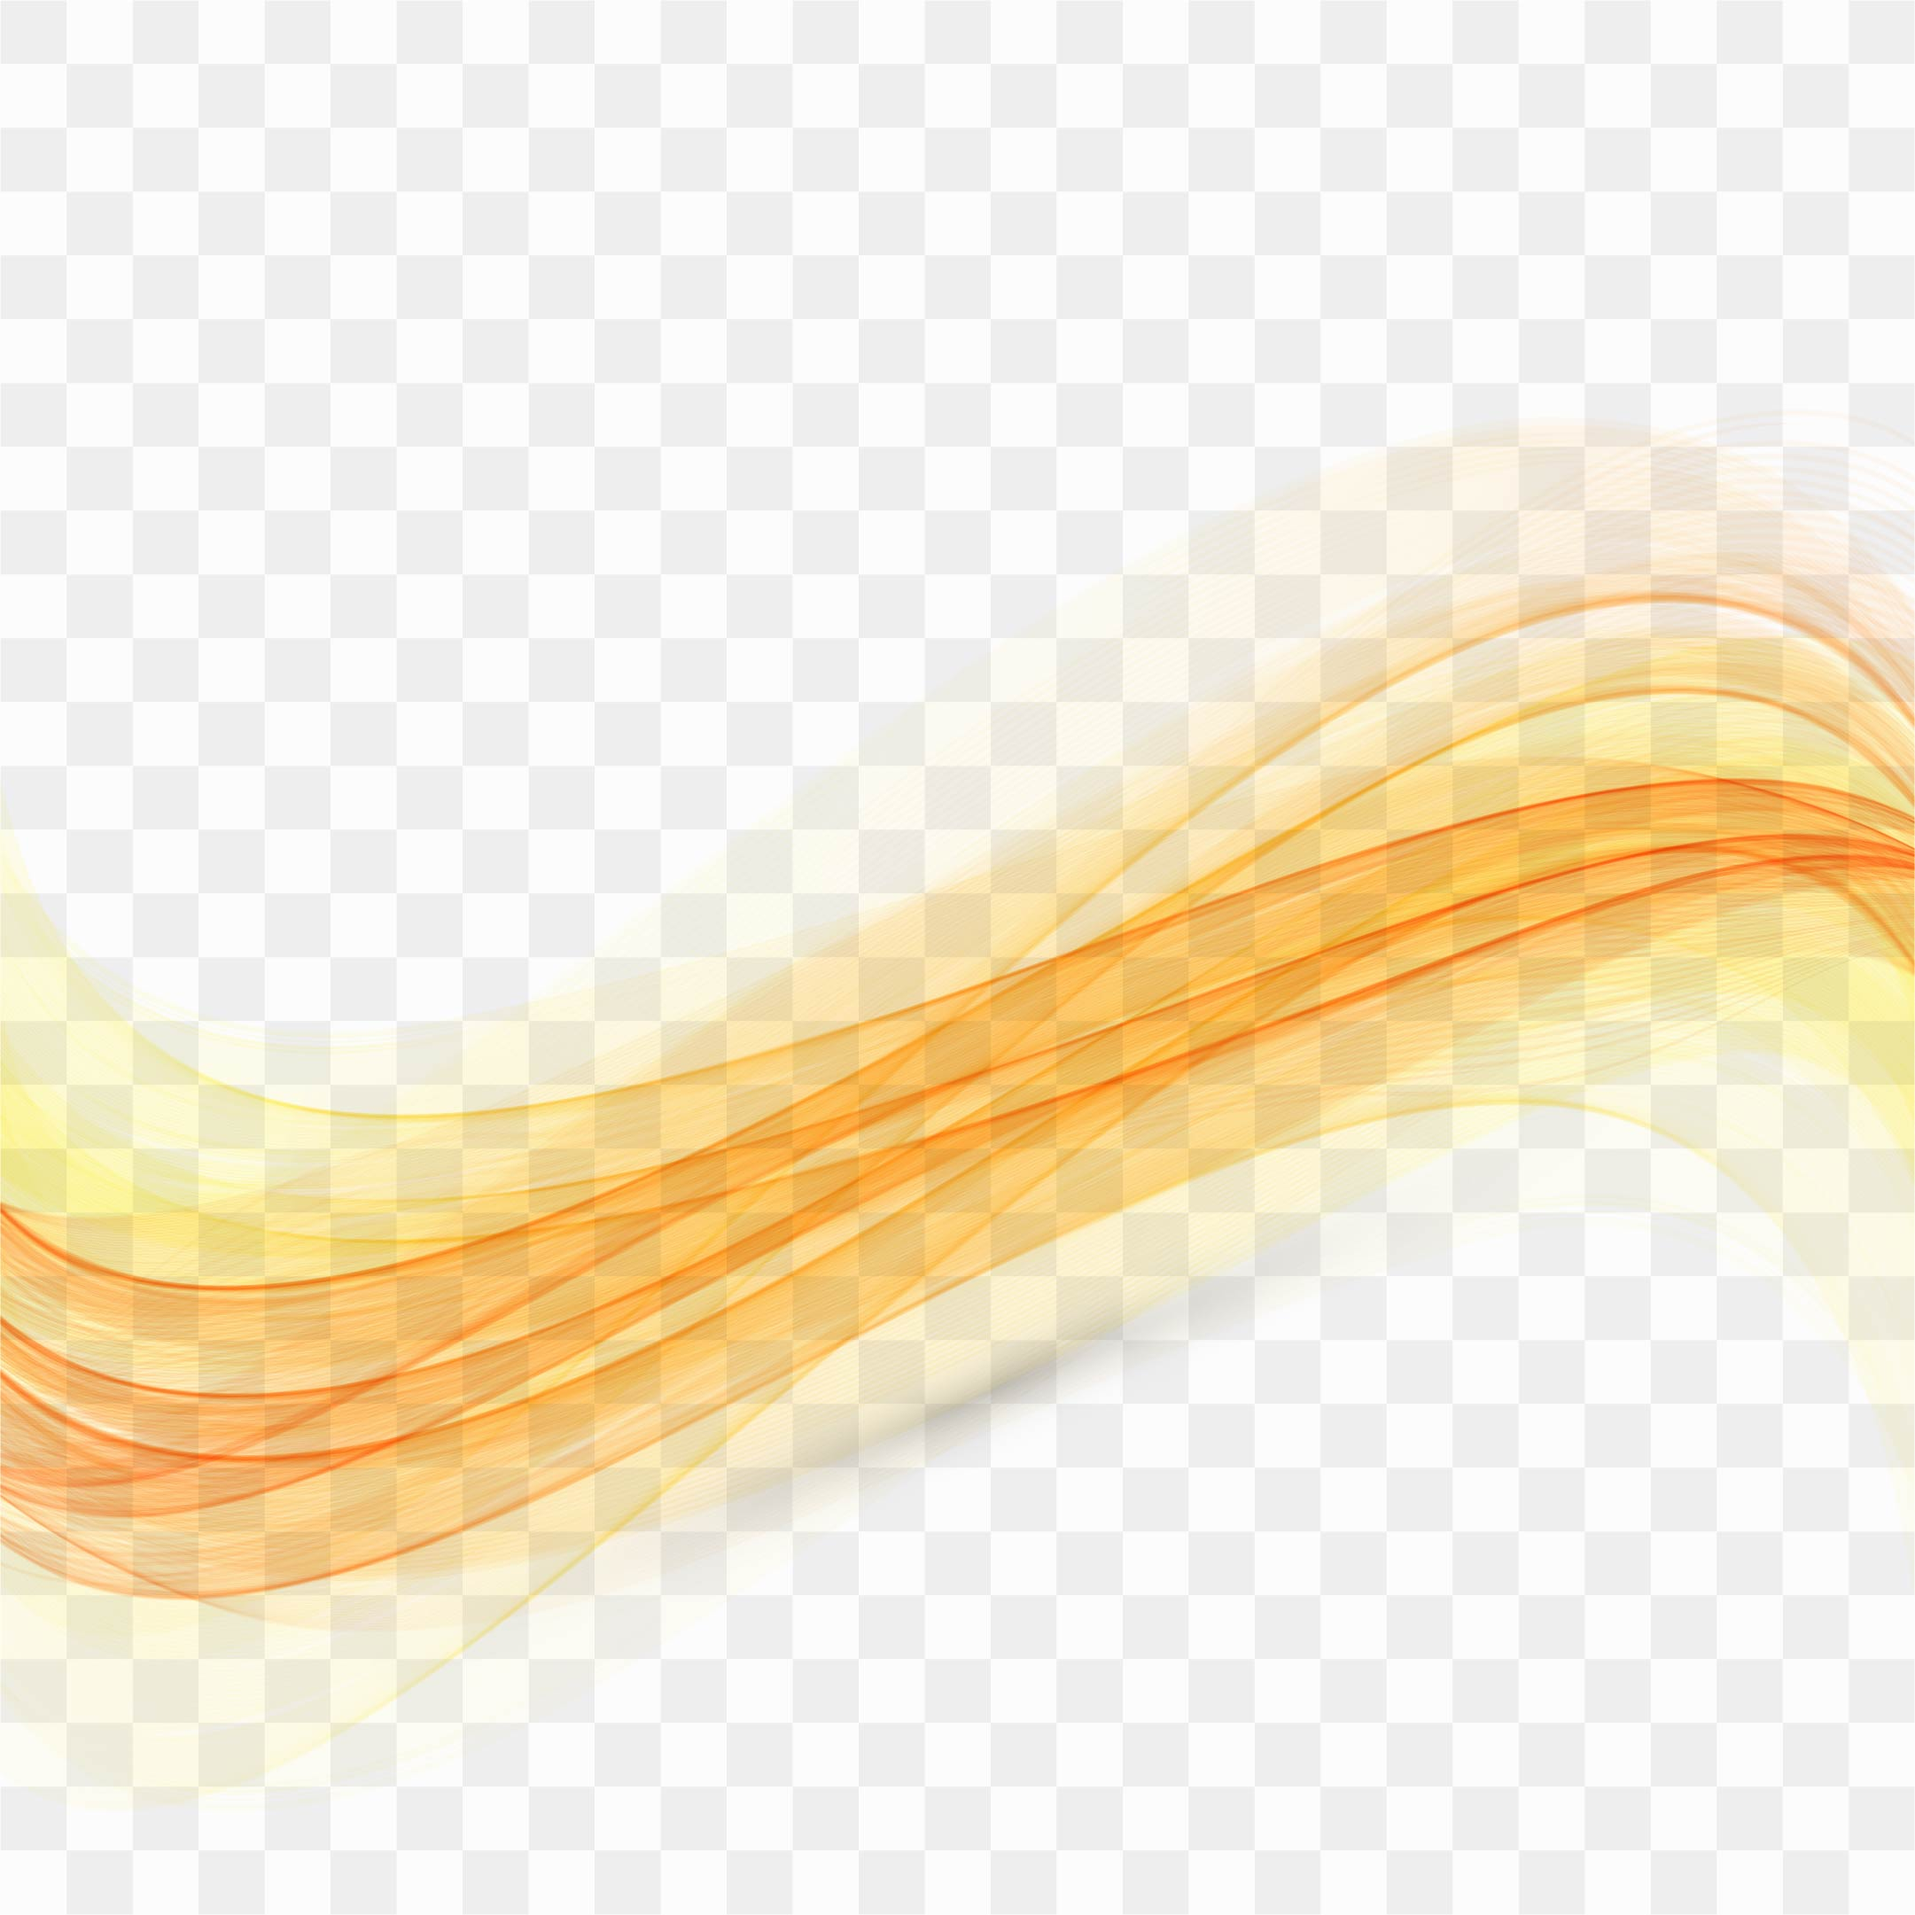
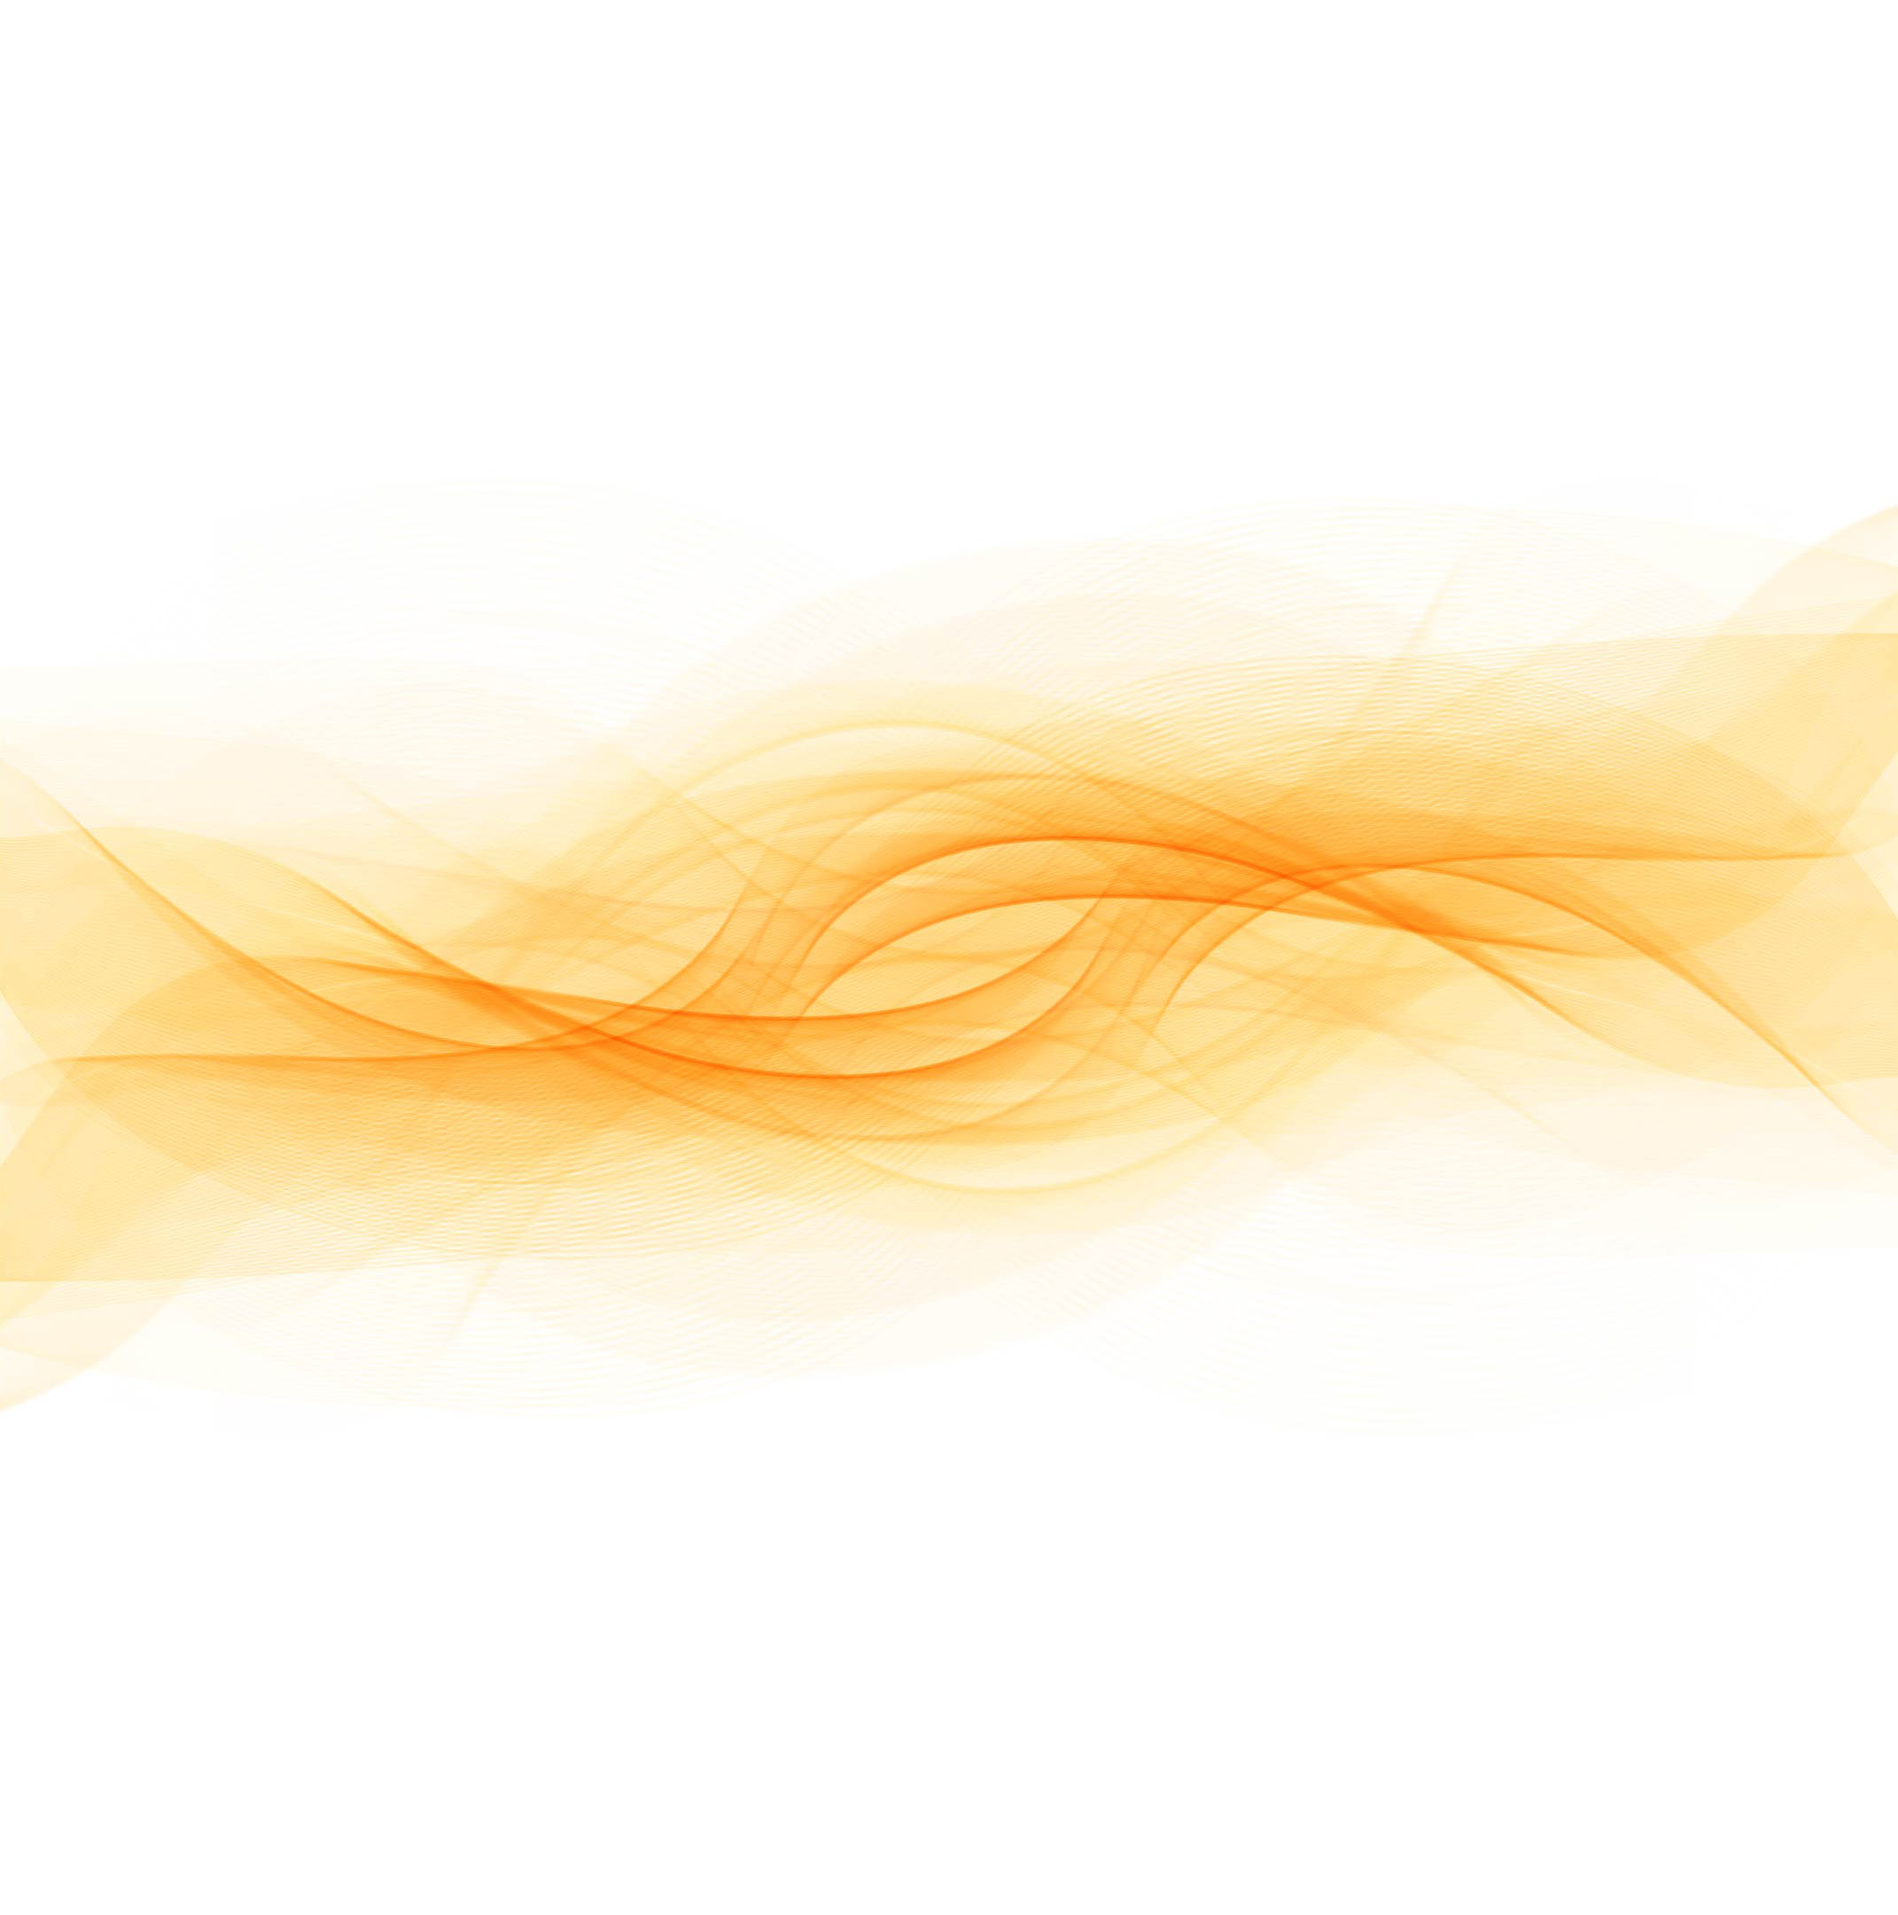
edited bgimage, and some styling

diff --git a/src/Pages/Auth/Auth.jsx b/src/Pages/Auth/Auth.jsx
@@ -28,7 +28,7 @@ function LoginCard({ onCreateAccountClick, onLogin }) {
     };
 
     return (
-        <Card title="Login Page" description="Welcome to the free shops App Controller">
+        <Card title="Log in" description="Welcome to the free shops App Controller">
             <Input
                 label="Email"
                 type="email"
@@ -45,11 +45,11 @@ function LoginCard({ onCreateAccountClick, onLogin }) {
                 value={loginData.password}
                 onChange={handleInputChange}
             />
-            <div className="w-fit self-center">
+            <div className="w-fit self-center" style={{ marginTop: "20px" }}>
                 <Button onClick={handleLogin}>Log In</Button>
             </div>
             <div
-                className="text-blue-500 self-center mt-6 cursor-pointer"
+                className={`${styles.buttonLink}`}
                 onClick={onCreateAccountClick}
             >
                 Create New Account
@@ -125,11 +125,11 @@ function CreateNewAccountCard({ onLoginClick, onRegister }) {
                 value={registerData.confirmPassword}
                 onChange={handleInputChange}
             />
-            <div className="w-fit self-center">
+            <div className="w-fit self-center" style={{ marginTop: "20px" }}>
                 <Button onClick={handleRegister}>Create Account</Button>
             </div>
             <div
-                className="text-blue-500 self-center mt-6 cursor-pointer"
+                className={`${styles.buttonLink}`}
                 onClick={onLoginClick}
             >
                 Already have an account?

diff --git a/src/Components/Card/Card.module.css b/src/Components/Card/Card.module.css
@@ -2,26 +2,26 @@
     width: 100%;
     max-height: 650px;
     background-color: white;
-    padding: 20px;
+    padding: 24px;
     padding-bottom: 10px;
-    border-radius: 10px;
+    border-radius: 16px;
     box-shadow: 0px 4px 10px rgba(0, 0, 0, 0.1);
 }
 
 .cardTitle {
-    font-size: 24px;
-    font-weight: bold;
-    margin-bottom: 2px;
+    font-size: 26px;
+    font-weight: 700;
 }
 
 .cardDescription {
-    font-size: 16px;
-    color: #555;
+    font-size: 14px;
+    color: #7F7F7F;
+    font-weight: 400;
 }
 
 .cardContent {
     margin-top: 20px;
     display: flex;
     flex-direction: column;
-    gap: 10px;
+    gap: 12px;
   }

diff --git a/src/Pages/Auth/Auth.module.css b/src/Pages/Auth/Auth.module.css
@@ -49,7 +49,22 @@
 
 .authFormContainer {
     flex: 1;
-    padding: 24px;
+    padding: 35px;
+    display: flex;
+    flex-direction: column;
+    justify-content: center;
+    align-items: center;
+    gap: 20px;
+}
+
+.buttonLink {
+    color: #7CB5EC;
+    font-size: 16px;
+    font-weight: 500;
+    text-decoration: none;
+    cursor: pointer;
+    margin: 20px 0px;
+    text-align: center;
 }
 
 .authForm {

diff --git a/src/Components/Input/Input.module.css b/src/Components/Input/Input.module.css
@@ -7,7 +7,7 @@
 
 .inputLabel {
   font-size: 14px;
-  font-weight: 500;
+  font-weight: 600;
   color: #333;
 }
 
@@ -22,6 +22,7 @@
   border: 1px solid #ccc;
   border-radius: 5px;
   font-size: 16px;
+  font-weight: 400;
   outline: none;
   transition: border-color 0.3s ease;
 }
